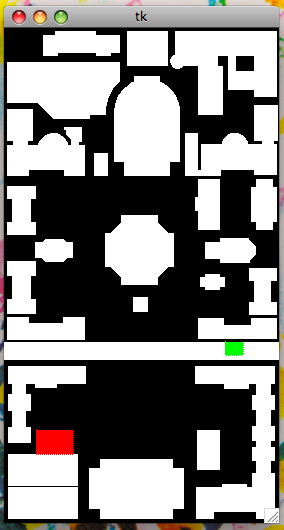
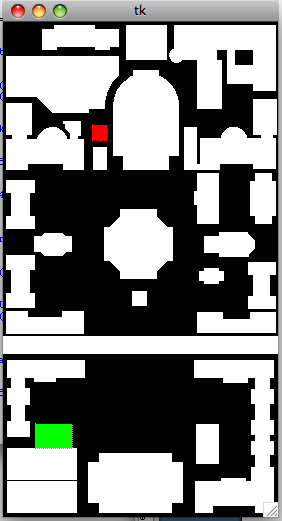
Updated Step 3 Output Path descriptions.

diff --git a/a3.py b/a3.py
@@ -13,7 +13,7 @@ import scipy.ndimage.measurements as snm
 
 
 def main():
-    ''' Does the work for this program.'''
+    '''Runs all four steps of the assignment'''
     # input files
     labeled_file = "ass3-labeled.pgm"
     table_file = "ass3-table.txt"
@@ -24,10 +24,11 @@ def main():
 
     # Step 1: Basic infrastructure and building features/descriptions
     step1(map_im, b_names)
+
+    global names
+    names = b_names
     
     # Step 2: Describing compact spatial relations
-
-    # perform list of all relationships
     step2()
     
     # Step 3: Source and goal description and user interface
@@ -37,12 +38,16 @@ def main():
     step4()
 
 def step4():
-    '''Describes a path from S to G'''
+    '''Describes a path from S to G and directs a user through clicks.'''
+    PATH1 = [[],[]]
+    PATH2 = [[],[]]
+    PATH3 = [[],[]]
 
 def step3():
     '''Displays a GUI that interacts with user's click to show pixel cloud.'''
     root = Tkinter.Tk()
 
+    # for S/G and R/G and map reset
     global coordinates
     global clickcount
     clickcount = 0
@@ -73,9 +78,11 @@ def step3():
 
         coordinates.append([event.x, event.y])
 
+        # red for first click (S)
         if clickcount == 0:
             color = (255,0,0)
             clickcount += 1
+        # green for second click (G)
         else:
             color = (0, 255, 0)
             clickcount = 0
@@ -87,6 +94,7 @@ def step3():
         for item in pixeldraw:
             image1.putpixel((item[0],item[1]), color)
 
+        # make sure display up to date
         root.geometry('%dx%d' %(image1.size[0],image1.size[1]))
         tkpi = ImageTk.PhotoImage(image1)
         
@@ -119,9 +127,9 @@ def similarpixels(xcoor, ycoor):
                             [[xcoor, ycoor]], [[xcoor,ycoor]])
     print "Location: ", xcoor,ycoor
     
-    # reduce the description                        
+    # reduce the description:                      
 
-    # transitive reduction
+    # transitive reduction for north and east
     for i in range(0, num_buildings):
         if relationships[i][0]: #north of this building
             for k in range(0, num_buildings):
@@ -131,7 +139,7 @@ def similarpixels(xcoor, ycoor):
             for k in range(0, num_buildings):
                 if East(k,i):
                     relationships[k][1] = False
-        if relationships[i][2]: #near building
+        if relationships[i][2]: #near building reduce
             for k in range(0, num_buildings):
                 if k != i and Near(k,i) and Near(i,k) and relationships[k][2]:
                     imbr = mbrs[i]
@@ -140,18 +148,37 @@ def similarpixels(xcoor, ycoor):
                     jmbrarea = (jmbr[2] - jmbr[0]+1) * (jmbr[3] - jmbr[1]+1)
                     if imbrarea > jmbrarea:
                         relationships[i][2] = False
-                        print i+1, k+1
                     else:
                         relationships[k][2] = False
-                        print k+1, i+1
-    
+    for i in range(0, num_buildings):
+        if relationships[i][2]:         # if it's not nearby it's not helpful
+            for k in range(0, num_buildings):
+                if Near(i,k) == False:
+                    relationships[k] = False
+
+    global names
+    # describe the point
+    desc = ""
     for bnum in range(0, num_buildings):
+        count = 0
         if relationships[bnum][0]:
-            print "G is North of ", bnum+1
+            desc += "North of "
+            count += 1
         if relationships[bnum][1]:
-            print "G is East of ", bnum+1
+            if count == 0:
+                desc += "East of "
+                count += 1
+            else:
+                desc += "and East of "
         if relationships[bnum][2]:
-            print "G is Near to ", bnum+1
+            if count == 0:
+                desc += "Near to "
+                count += 1
+            else:
+                desc += "and Near to "
+        if count != 0:
+            desc += "%d (%s), " %(bnum+1, names[bnum])
+    print desc
     print "Cloud Size:", len(result)
     return result
     
